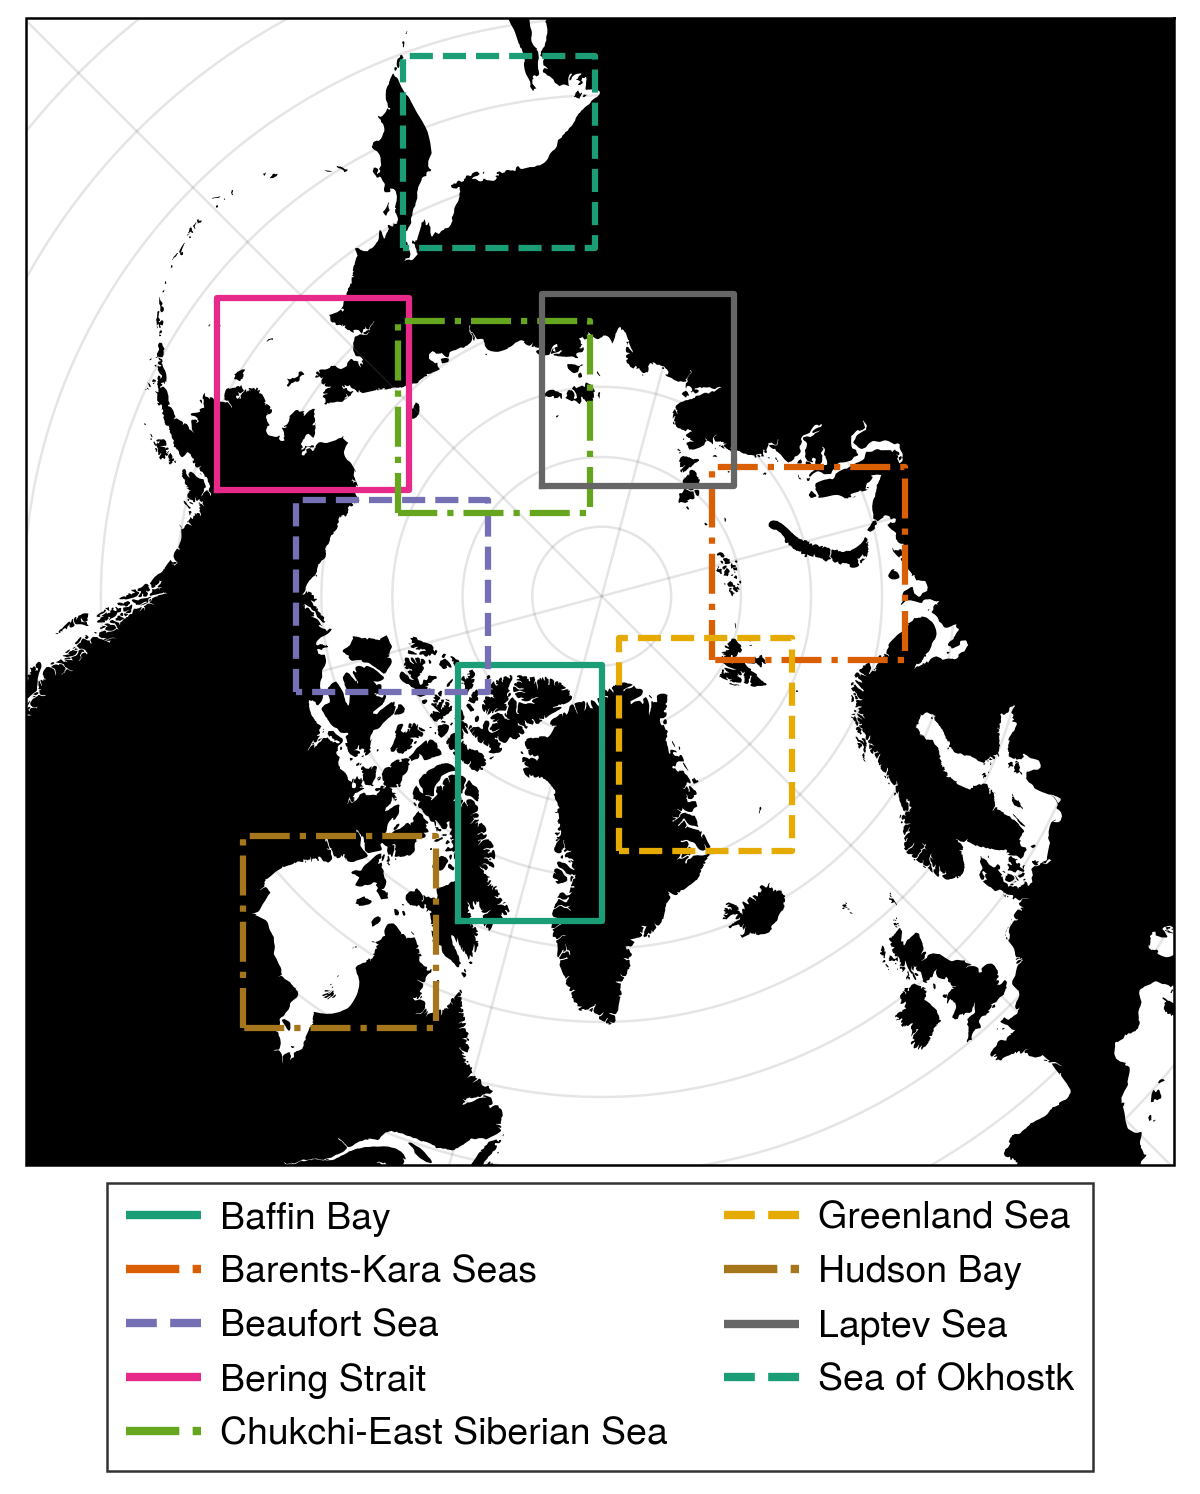
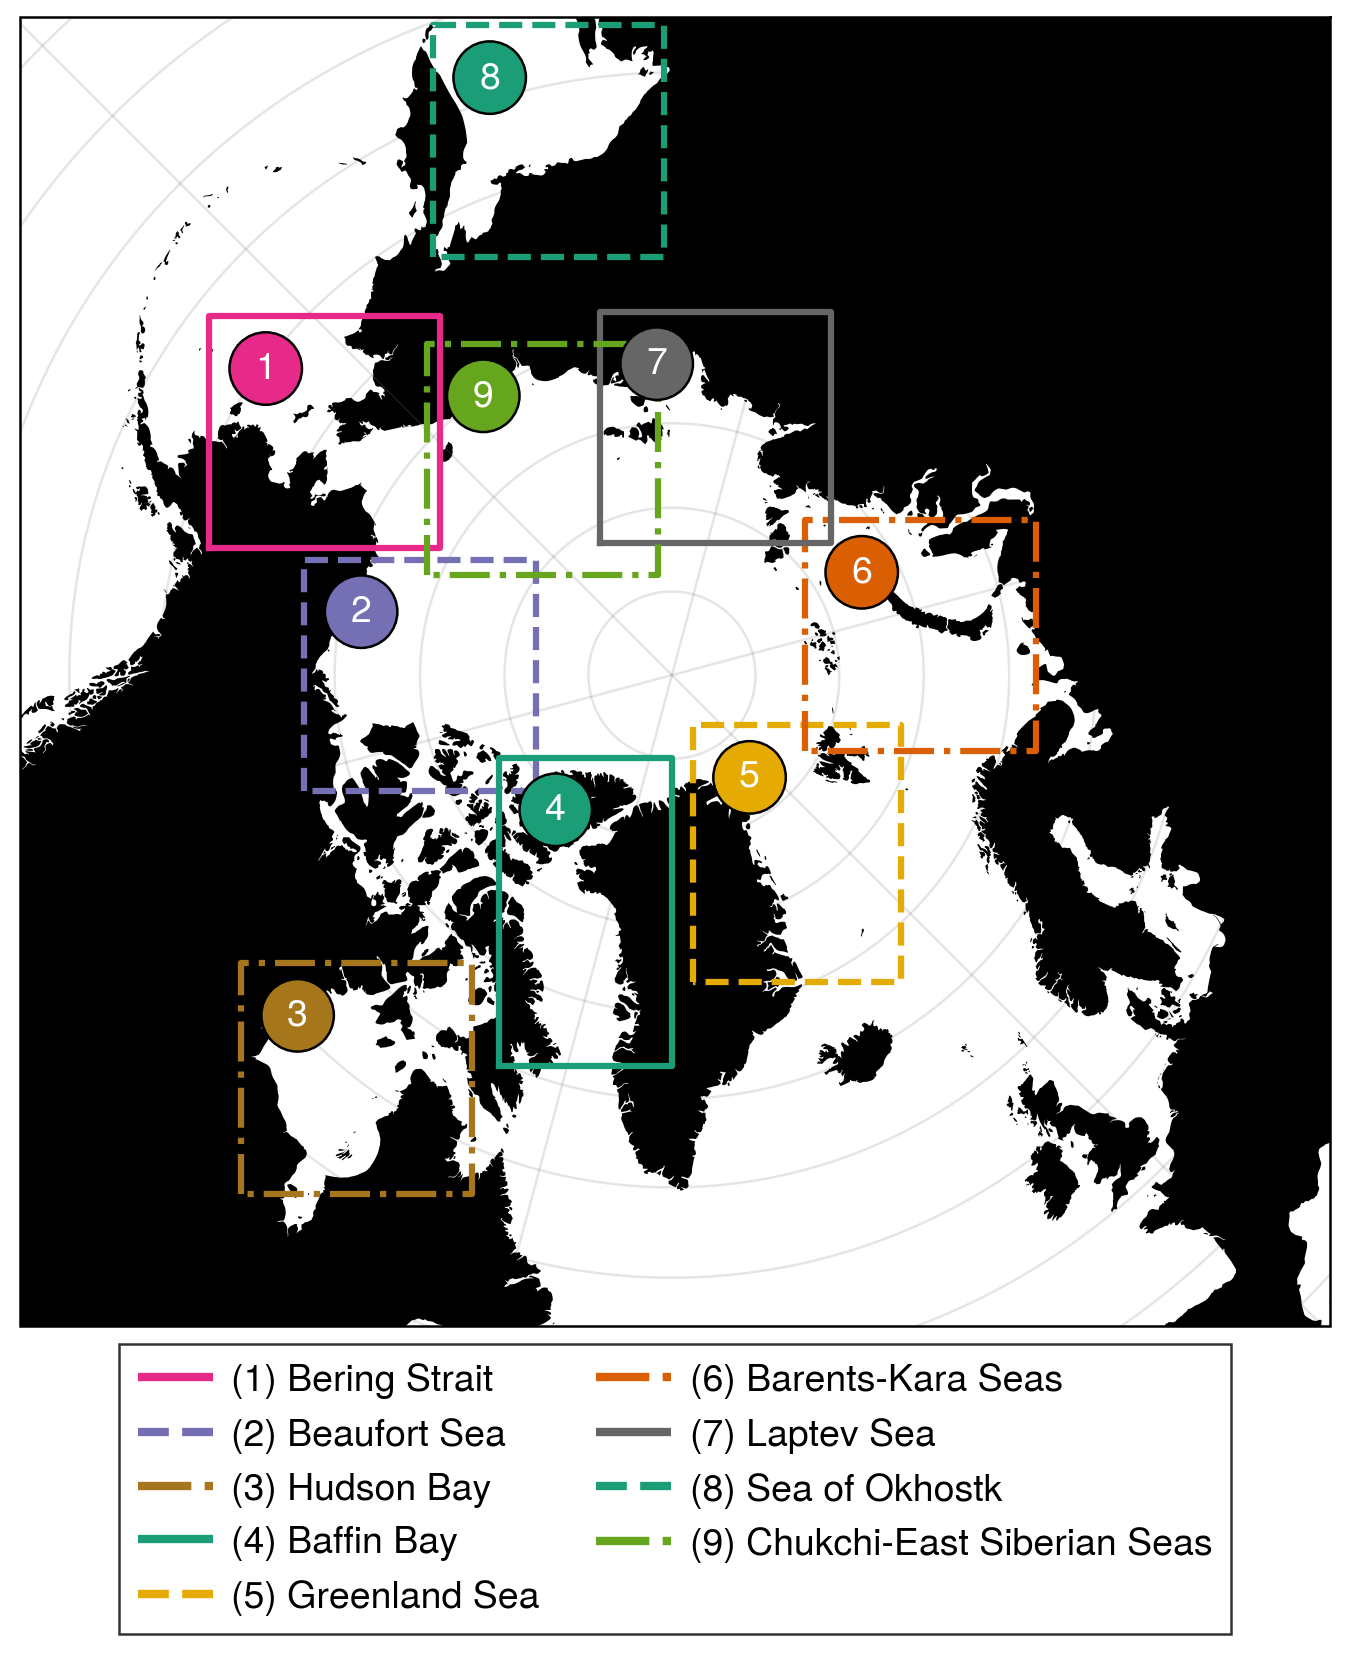
Streamlining definitions and naming

Changed region(s): [[0.0, 0.0, 0.9867, 1.0], [0.1233, 0.1232, 0.185, 0.1539]]

diff --git a/scripts/setup_locations.py b/scripts/setup_locations.py
@@ -20,10 +20,10 @@ data = [['bering_strait', 65,  -170],
         ['hudson_bay', 60, -83],
         ['baffin_bay', 75, -65],        
         ['greenland_sea', 77,   -10],
-        ['barents-kara_seas', 75,   54],        
+        ['barents_kara_seas', 75,   54],        
         ['sea_of_okhostk', 58,   148],
         ['laptev_sea',  75, 125],
-        ['chukchi-east_siberian_sea', 75,   166]]
+        ['chukchi_east_siberian_seas', 75,   166]]
 
 def find_box(center_lon, center_lat, length_x, length_y, return_coords='stere'):
     """Find the coordinates of each corner for a box centered at center_lon,
@@ -130,4 +130,4 @@ locations_pretty.set_index('print_title', drop=True, inplace=True)
 print(locations_pretty.loc[:, ['Latitude', 'Longitude', '$\Delta X$ (km)', '$\Delta Y$ (km)']].style.to_latex(hrules=True))
     
 # Save the names and mid points
-locations.loc[:, ['center_lat', 'center_lon', 'center_x', 'center_y', 'left_x', 'right_x', 'lower_y', 'top_y']].to_csv('../data/region_definitions.csv')
+locations.loc[:, ['center_lat', 'center_lon', 'center_x', 'center_y', 'left_x', 'right_x', 'lower_y', 'top_y']].to_csv('../data/metadata/region_definitions.csv')

diff --git a/scripts/plot_locations.py b/scripts/plot_locations.py
@@ -21,6 +21,13 @@ linestyles = {region: ls for region, ls in zip(regions.index,
 regions['print_title'] = [c.replace('_', ' ').title().replace('Of', 'of') for c in regions.index]
 regions = regions.sort_values('center_lon')
 
+for idx, row in regions.iterrows():
+    if row.print_title == 'Barents Kara Seas':
+        regions.loc[idx, 'print_title'] = 'Barents-Kara Seas'
+    if row.print_title == 'Chukchi East Siberian Seas':
+        regions.loc[idx, 'print_title'] = 'Chukchi-East Siberian Seas'
+    
+
 fig, ax = pplt.subplots(width=4.5, proj='npstere', proj_kw={'lon_0': -45})
 ax.format(land=True, color='k', boundinglat=52, landzorder=0, latmax=90)
 

diff --git a/README.md b/README.md
@@ -2,18 +2,24 @@
 This project has three aims: (1) creation of a manually labeled validation dataset, (2) implementation of appropriate metrics for segmentation evaluation, and (3) application of the dataset and the metrics for creation of a classifier to remove false positives from ice floe segmentation results.
 
 ## Software setup
-The calibration and validation code includes both Python and Julia scripts. The file `cal-val.yml` contains a list of the package dependencies. Using `micromamba`, you can create an environment with the command 
+The calibration and validation code includes both Python and Julia scripts. The file `cal-val.yml` contains a list of the package dependencies. Using `conda`, you can create an environment with the command 
 
-```> micromamba create -f cal-val.yml```
+```> conda env create -f cal-val.yml```
 
-The package `proplot` is used for figures. There are issues with `proplot` for newer versions of `matplotlib`, hence the version is set as 0.9.7 for `proplot` and 3.4.3 for `matplotlib`. If a newer version of `scikit-image` is needed, we may need to choose a different tool for figure creation.
+The package `proplot` is used for figures. There are issues with `proplot` for newer versions of `matplotlib`, hence the version is set as 0.9.7 for `proplot` and 3.4.3 for `matplotlib`, and Python is set to version 3.9.13. If a newer version of `scikit-image` is needed, we may need to choose a different tool for figure creation.
 
 For Julia, `IceFloeTracker.jl` requires at least Julia 1.9. Instructions for installing IFT are on the IFT github repository.
-TBD: Check whether we need to explicitly include `iJulia` in the `micromamba` yaml file in order to run Julia notebooks.
+TBD: Check whether we need to explicitly include `iJulia` in the `conda` yaml file in order to run Julia notebooks. What are the minimal setup steps to get a Julia notebook up and running?
+
+The Ice Floe Tracker algorithm is encoded in the ice-floe-tracker-pipeline repository for use in the Brown University computing cluster, Oscar. Scripts here are used to prepare specification files for running the algorithm, and a portion of the output is stored locally.
+
+## Creating the validation dataset
+The goal of the calibration and validation process is to identify the best choice of parameters for the algorithm, and to quantify uncertainty and biases in the data. A crucial first step is the set of "truth values" for 
 
 
 
-The goal of the calibration and validation process is to identify the best choice of parameters for the algorithm, and to quantify uncertainty and biases in the data. In order to do this, we need to develop a set of metrics that measure the performance of the algorithm. The set of parameters that minimizes the error in the set of metrics is considered the best choice. It is not expected that the optimal parameter set reduces all the uncertainty to zero, of course, so an additional step is to report the error metrics with the optimal paramter set. For that to be a valid measure of uncertainty, though, we need to maintain separation between testing and training data. This may require increasing the sample size -- time will tell.
+
+In order to do this, we need to develop a set of metrics that measure the performance of the algorithm. The set of parameters that minimizes the error in the set of metrics is considered the best choice. It is not expected that the optimal parameter set reduces all the uncertainty to zero, of course, so an additional step is to report the error metrics with the optimal paramter set. For that to be a valid measure of uncertainty, though, we need to maintain separation between testing and training data. This may require increasing the sample size -- time will tell.
 
 TBD: Overview of IFT algorithm. Stages of the algorithm that need calibrating, and what knobs we can turn.  
 TBD: Overview of the IFT output. What comes out of the algorithm, and what do we need to know to use the data?
